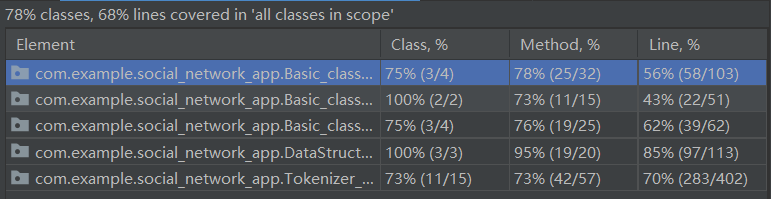
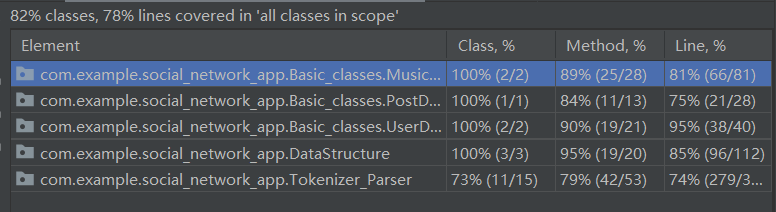
update report

Changed region(s): [[0.0, 0.1809, 0.9961, 0.9347], [0.0, 0.0, 0.5603, 0.1206]]

diff --git a/app/src/test/java/com/example/social_network_app/BasicTest/BasicTest.java b/app/src/test/java/com/example/social_network_app/BasicTest/BasicTest.java
@@ -7,6 +7,7 @@ import static org.junit.Assert.assertTrue;
 import com.example.social_network_app.Basic_classes.MusicDao.Music;
 import com.example.social_network_app.Basic_classes.MusicDao.MusicDao;
 import com.example.social_network_app.Basic_classes.MusicDao.MusicDaoInterface;
+import com.example.social_network_app.Basic_classes.MusicDao.MusicTag;
 import com.example.social_network_app.Basic_classes.PostDao.Post;
 import com.example.social_network_app.Basic_classes.PostDao.PostDao;
 import com.example.social_network_app.Basic_classes.PostDao.PostDaoInterface;
@@ -54,6 +55,24 @@ public class BasicTest {
         assertEquals(-1,music.getSortOrder());
         assertEquals(-1,music.getSortBy());
         MusicDaoInterface musicDaoInterface = new MusicDao();
+    }
+
+    @Test
+    public void MusicTagTest(){
+        assertEquals("alternative",MusicTag.getTagById(1).toString());
+        assertEquals("blues",MusicTag.getTagById(2).toString());
+        assertEquals("country",MusicTag.getTagById(3).toString());
+        assertEquals("dance",MusicTag.getTagById(4).toString());
+        assertEquals("electronica",MusicTag.getTagById(5).toString());
+        assertEquals("hiphop",MusicTag.getTagById(6).toString());
+        assertEquals("pop",MusicTag.getTagById(7).toString());
+        assertEquals("rap",MusicTag.getTagById(8).toString());
+        assertEquals("rock",MusicTag.getTagById(9).toString());
+        assertEquals("R&B",MusicTag.getTagById(10).toString());
+        assertNull(MusicTag.getTagById(11));
+
+
+
     }
 
     @Test

diff --git a/app/src/main/java/com/example/social_network_app/Basic_classes/MusicDao/MusicTag.java b/app/src/main/java/com/example/social_network_app/Basic_classes/MusicDao/MusicTag.java
@@ -16,6 +16,7 @@ public enum MusicTag {
     MusicTag(int id) {
         this.id = id;
     }
+
     public static MusicTag getTagById(int id){
         for(MusicTag m : MusicTag.values()){
             if(m.id == id){
